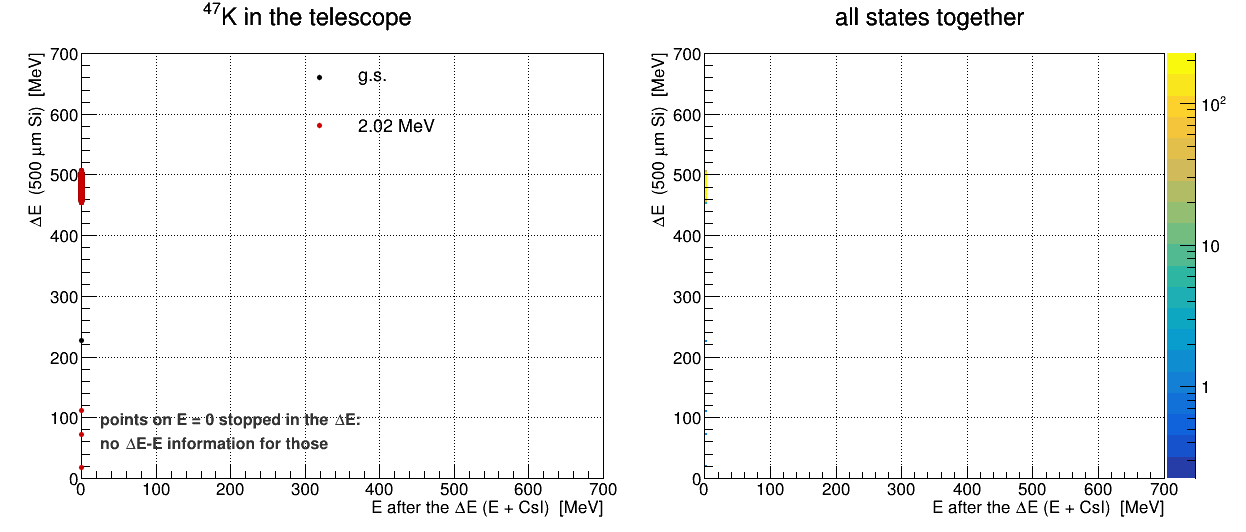
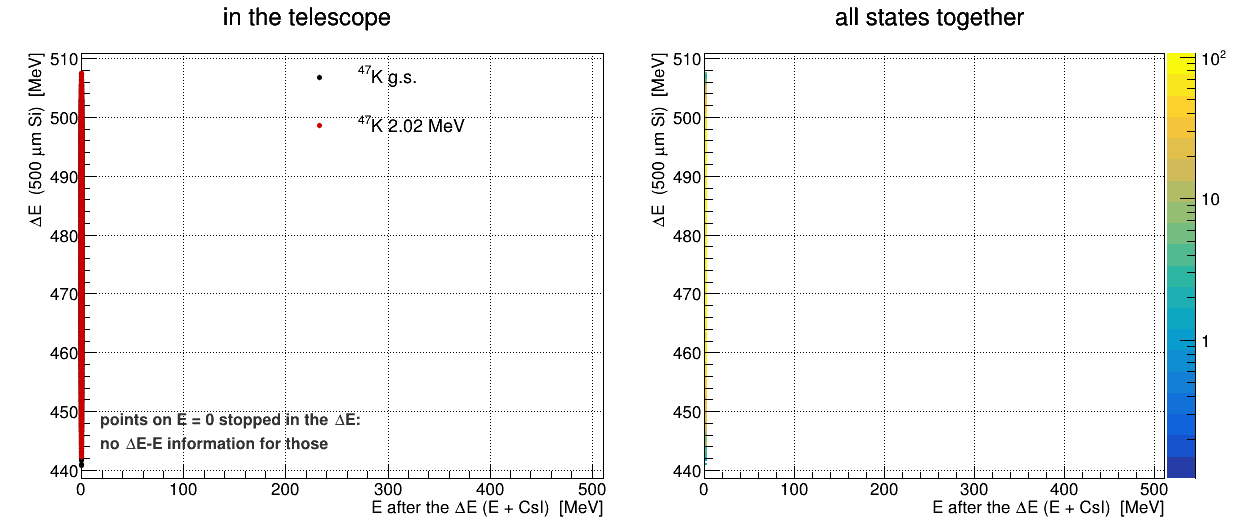
46Ar(3He,d): finished forward telescope and dE-E study
The 500/1000 um silicon stack stops the 47K residual in the first layer
(5680 of 5688, none reach E or the CsI). A 40 um dE + 200 um E stack
works: 99.8 % punch through and the residual separates from the
unreacted beam by 10.6 % in dE (5.1 sigma).

Ar46_3Hed_sim.C gains maxELossArg (1e5 = no-reaction mode, for the beam
locus) and aborts on a missing telescope geometry instead of running
with a dead detector. dEE_telescope_Ar46.C auto-ranges on percentiles.

diff --git a/geometry/Ar46_telescope.C b/geometry/Ar46_telescope.C
@@ -19,13 +19,51 @@
 /// because ions punch through 1.5 mm of silicon, so the CsI is not optional decoration; it is
 /// where the remaining energy is measured.
 ///
-/// !! AN OPEN DISCREPANCY, RECORDED SO IT IS NOT REDISCOVERED. !! GEANT4 in this simulation has
-/// a 461 MeV 47K depositing 279 MeV in only 100 um of silicon, i.e. stopping in ~150-200 um,
-/// which cannot be reconciled with a stack that deliberately puts CsI behind 1.5 mm of silicon.
-/// AtELossCATIMA disagrees with GEANT4 by a factor ~4.5 on the same case. Something in that chain
-/// is wrong and it has NOT been resolved -- so read the deposits this geometry produces as a
-/// measurement to be checked against the real detector, not as a prediction to trust. The same
-/// question hangs over AtELossCATIMA wherever else this analysis uses it.
+/// !! THE 500/1000 um STACK CANNOT WORK FOR THIS RESIDUAL, AND THE OLD "FACTOR 4.5" NOTE WAS
+/// WRONG -- BUT THE CODES DO NOT AGREE EITHER. !! (measured 2026-09-09)
+///
+/// RANGE. The 47K residual arrives at 9.5-10.9 MeV/u (arrival KE 477 +- 14 MeV, measured) and its
+/// range in silicon is 119-172 um. catima called directly gives 133.5 um at 461 MeV, and
+/// AtELossCATIMA::GetRange gives 133.7 um -- that path is a direct catima::range call and is not
+/// step-dependent. A Bethe-Barkas hand check agrees: a 10 MeV proton in Si loses 35.8 MeV cm2/g
+/// (PSTAR says 35.5), and Z_eff = 17.5 for K at this velocity gives Z_eff^2 = 307, hence
+/// 2561 MeV/mm -- catima's own entrance value to 0.1 %. The old note here claiming a 573 um range
+/// is simply wrong.
+///
+/// dE/dx. GEANT4 in this simulation is LOW against all of that, by 15-30 %:
+///
+///     layer      arrival      GEANT4 dE      catima dE     catima/GEANT4
+///     100 um     461 MeV       278.6 MeV      315.2 MeV        1.13
+///      40 um     476 MeV        81.5 MeV      107.3 MeV        1.32
+///
+/// (the ratio is not constant because at 100 um the ion is already into its Bragg peak, and the
+/// two codes put that peak in different places.) catima is the one that matches the hand check,
+/// so GEANT4's heavy-ion stopping here is the suspect -- most likely the physics list's ion
+/// parameterisation. NOT RESOLVED, but it is a 25 % question, not a factor of 4.5.
+///
+/// !! THE TRAP THAT MANUFACTURED THE OLD DISAGREEMENT !! AtELossCATIMA integrates in steps of
+/// fRangeStepSize, DEFAULT 0.1 mm -- one single step for a 100 um layer. Its deposit for the case
+/// above runs 256.0 / 279.1 / 306.8 / 315.2 MeV at steps of 0.1 / 0.05 / 0.01 / 0.001 mm. The
+/// default underestimates by 19 %, and 256 MeV happens to sit close to GEANT4's 279, which is what
+/// made the two look like they agreed. CALL SetRangeStepSize() BEFORE USING GetEnergy OR
+/// GetEnergyLoss ON ANYTHING THINNER THAN A FEW MILLIMETRES. GetRange(E, 0) is unaffected.
+///
+/// WHAT THIS MEANS FOR THE STACK -- and it is the same answer under either code. The hardware
+/// stack is a TOTAL-ENERGY detector for 47K and carries no dE-E information: measured on 12000
+/// events per state, 5680 of 5688 residuals stop in the 500 um dE, NOTHING reaches the E layer,
+/// and the CsI -- behind 1.5 mm of silicon -- never fires. The CsI is presumably there for light
+/// ejectiles, but in this reaction the deuteron goes BACKWARD (theta_lab 60-134 deg) and never
+/// reaches the telescope at all.
+///
+/// A WORKING STACK NEEDS A THIN dE. Build one with the thickness arguments:
+///   root -l 'geometry/Ar46_telescope.C(40,200,"40_200")'
+/// Measured on 12000 events: 5655 of 5665 residuals deposit in the 40 um dE and 5650 punch through
+/// into the E layer -- 99.8 % -- with a mean dE of 81.4 MeV, and the CsI still empty. 200 um of E
+/// stops the rest with margin. The species separate by ~9 % in dE per unit of Z (46Ar / 47K /
+/// 48Ca), nearly independent of the dE thickness, while the energy-loss straggling is 0.05-0.3 %,
+/// so the separation is limited by DETECTOR resolution, not physics: ~1 % silicon leaves it
+/// ~9 sigma. That 9 % is a Z_eff^2 scaling both codes share, so the GEANT4/catima gap above does
+/// not put it in doubt.
 ///
 /// SIZE AND STANDOFF. The residual stays within 3.33 deg of the axis over the proposal's
 /// theta_cm 15-80 deg window, but the vertex is spread over the whole metre of gas, so the lever
@@ -38,6 +76,16 @@
 /// and what is clipped is always the large-theta_cm corner, where the DWBA is weakest -- so the
 /// real loss is smaller than those flat numbers. 5 cm is the default here as a compromise with
 /// whatever the vessel actually needs; move it with kZFront.
+///
+/// MEASURED, 2026-09-09, and it BEATS that table: 99.9 % of the 47K residuals deposit in the dE
+/// (5680 of 5688 on 12000 events, at 2.85 T with a 5 cm gap). The analytic numbers above are
+/// straight lines and are therefore pessimistic -- the solenoid FOCUSES a residual emitted from a
+/// point on its own axis, and the median radius at the dE comes out 2.15 cm against a
+/// straight-line 2.43 cm. Do not read the field as a nuisance here; it helps.
+///
+/// That 99.9 % only became visible once the residual stopped being truncated in flight: see
+/// AtGenerators/AtTPCIonGenerator.cxx. Before that fix this telescope measured 46 %, and the
+/// deficit was NOT geometric.
 ///
 /// POSITION. Both layers are position sensitive. Strip pitch is NOT in this geometry -- Geant4
 /// records the true hit position in AtSiPoint and the strips are applied in analysis, which is
@@ -55,6 +103,7 @@
 #include "TString.h"
 #include "TSystem.h"
 
+#include <cmath>
 #include <iostream>
 
 TString geoVersion = "Ar46_telescope_v1.0";
@@ -75,11 +124,14 @@ const Double_t kGap = 5.0;     ///< clearance between the cathode and the first 
 const Double_t kZFront = kDriftEnd + kGap;
 Double_t kDEThick = 0.0500; ///< dE DSSD,  500 um  (overridden by the argument)
 Double_t kEThick = 0.1000;  ///< E  DSSD, 1000 um  (overridden by the argument)
-// CsI array: 18 x 18 mm entrance face, 25 mm deep. 5 x 5 covers 90 x 90 mm, i.e. the 10 x 10 cm
-// silicon in front of it -- the element size is the hardware, the 5 x 5 count is an assumption
-// and is the first thing to change if the real array differs.
-const Int_t kNCsI = 5;            ///< elements per side
-const Double_t kCsIFace = 1.8;    ///< entrance face [cm]
+// CsI array: 18 x 18 mm entrance face, 25 mm deep -- the element size and depth are the hardware.
+// THE COUNT IS DERIVED, NOT CHOSEN, so the array always COVERS THE DSSD: a fixed 5 x 5 spans only
+// 90 x 90 mm against a 100 x 100 mm silicon and leaves the corners -- and therefore the largest
+// theta_cm, which is where the residual lands -- unwatched. ceil() rounds up, so the array
+// slightly overhangs the silicon rather than falling short, and it follows kXSize/kYSize
+// automatically if the DSSD size is ever changed.
+const Int_t kNCsI = (Int_t)std::ceil(std::max(kXSize, kYSize) / 1.8); ///< elements per side
+const Double_t kCsIFace = 1.8;    ///< entrance face [cm] -- hardware
 const Double_t kCsIDepth = 2.5;   ///< depth [cm]
 const Double_t kCsIGap = 0.5;     ///< gap between the E DSSD and the CsI front face [cm]
 const Double_t kSep = 1.0;        ///< gap between the two DSSDs [cm]
@@ -124,6 +176,19 @@ void Ar46_telescope(Double_t dEum = 500., Double_t Eum = 1000., TString tag = ""
    gGeoMan->CheckOverlaps(0.001);
    gGeoMan->PrintOverlaps();
    gGeoMan->Test();
+
+   // WRITE INTO $VMCWORKDIR/geometry, NOT THE CURRENT DIRECTORY. FairModule::SetGeometryFileName
+   // searches only the standard geometry path, and a file it cannot find there is reported as
+   // "[FATAL] ... not found in standard path" -- which does NOT stop the job. A 12000-event run
+   // was produced that way with a telescope present in the module list, no geometry behind it and
+   // ZERO AtSiPoints, and it looked like a physics result (0 of 5673 residuals in the dE) rather
+   // than a missing file.
+   TString outDir = gSystem->Getenv("VMCWORKDIR");
+   if (outDir.IsNull())
+      outDir = "..";
+   outDir += "/geometry/";
+   FileName = outDir + FileName;
+   FileName1 = outDir + FileName1;
 
    TFile *outfile = new TFile(FileName, "RECREATE");
    top->Write();

diff --git a/macro/Simulation/ATTPC/46Ar_3Hed/dEE_telescope_Ar46.C b/macro/Simulation/ATTPC/46Ar_3Hed/dEE_telescope_Ar46.C
@@ -18,8 +18,14 @@
 /// @param dEum  dE thickness in um, FOR THE AXIS LABEL ONLY. It is not read from the geometry, so
 ///              passing the wrong value mislabels the plot without changing anything it shows --
 ///              which is exactly what happened when a 20 um run was drawn as "500 um".
+/// @param pdgs  comma-separated PDG code per file, so one call can overlay DIFFERENT SPECIES --
+///              which is the only way this plot demonstrates anything. A single-species dE-E is a
+///              detector-response plot; the question a forward telescope has to answer is whether
+///              the residual is separable from the UNREACTED BEAM, and the beam locus comes from a
+///              no-reaction run (Ar46_3Hed_sim.C with maxELossArg = 1e5). Default: 47K everywhere.
+///              47K = 1000190470, 46Ar = 1000180460, 48Ca = 1000200480.
 void dEE_telescope_Ar46(TString files, TString labels, TString outPng = "plots/dEE_telescope_Ar46.png",
-                        Double_t dEum = 500.)
+                        Double_t dEum = 500., TString pdgs = "")
 {
    gSystem->Load("libAtSimulationData.so");
    gStyle->SetOptStat(0);
@@ -27,12 +33,68 @@ void dEE_telescope_Ar46(TString files, TString labels, TString outPng = "plots/d
 
    std::unique_ptr<TObjArray> af(files.Tokenize(","));
    std::unique_ptr<TObjArray> al(labels.Tokenize(","));
+   std::unique_ptr<TObjArray> ap(pdgs.Tokenize(","));
    const int NF = af->GetEntries();
 
-   // y range follows the dE thickness: a 20 um layer deposits ~40 MeV and would be an
-   // invisible line at the bottom of a 700 MeV axis. Frame on the data.
-   const double yHi = (dEum > 200.) ? 700. : 120.;
-   auto *hAll = new TH2D("hAll", "", 200, 0, 700, 200, 0, yHi);
+   // FRAME ON THE DATA, in two passes. A fixed 0-700 x 0-120 frame put the whole 40 um result in
+   // a corner and made the 47K and the unreacted 46Ar look like one blob when they are 10.6 %
+   // apart in dE. x always keeps 0 so that "stopped in the dE" stays visible as the left edge;
+   // y is taken from the points. The first pass below only measures the extent.
+   double xHi = 0, yLo = 1e30, yHi = 0;
+   std::vector<double> allDE;
+   for (int i = 0; i < NF; ++i) {
+      TFile *f0 = TFile::Open(((TObjString *)af->At(i))->GetString());
+      if (!f0 || f0->IsZombie()) continue;
+      TTree *t0 = (TTree *)f0->Get("cbmsim");
+      TClonesArray *si0 = nullptr, *mc0 = nullptr;
+      t0->SetBranchAddress("AtSiArrayPoint", &si0);
+      t0->SetBranchAddress("MCTrack", &mc0);
+      const int pdg0 = (i < ap->GetEntries()) ? ((TObjString *)ap->At(i))->GetString().Atoi() : 1000190470;
+      for (Long64_t e = 0; e < t0->GetEntries(); ++e) {
+         t0->GetEntry(e);
+         int id = -1;
+         for (int k = 0; k < mc0->GetEntriesFast(); ++k) {
+            auto *m = (AtMCTrack *)mc0->At(k);
+            if (m->GetMotherId() == -1 && m->GetPdgCode() == pdg0) { id = k; break; }
+         }
+         if (id < 0) continue;
+         double de = 0, rest = 0;
+         for (int k = 0; k < si0->GetEntriesFast(); ++k) {
+            auto *p = (AtSiPoint *)si0->At(k);
+            if (p->GetTrackID() != id) continue;
+            double el = p->GetEnergyLoss() * 1000.0;
+            if (el <= 0) continue;
+            if (TString(p->GetVolName()).Contains("_dE")) de += el; else rest += el;
+         }
+         if (de <= 0) continue;
+         if (rest > xHi) xHi = rest;
+         allDE.push_back(de);
+      }
+      f0->Close();
+   }
+   // PERCENTILES, NOT MIN/MAX. A dozen stray low-dE points (grazing incidence at the very edge of
+   // the wafer) would otherwise set the bottom of the axis and leave the whole lower half of the
+   // frame empty -- the same failure the fixed 0-120 frame had. How many points this pushes off
+   // the frame is PRINTED, so nothing is hidden silently.
+   long nOut = 0;
+   if (allDE.empty()) { yLo = 0; yHi = 1; xHi = 1; }
+   else {
+      std::sort(allDE.begin(), allDE.end());
+      const size_t n = allDE.size();
+      yLo = allDE[(size_t)(0.005 * n)];
+      yHi = allDE[std::min(n - 1, (size_t)(0.995 * n))];
+      const double pad = 0.10 * (yHi - yLo) + 1e-6;
+      yLo = std::max(0.0, yLo - pad);
+      yHi += pad;
+      for (double v : allDE) if (v < yLo || v > yHi) ++nOut;
+   }
+   // A stack that stops everything has EVERY point at E = 0, so the measured x extent is zero and
+   // the frame would be degenerate. Fall back to the dE scale, which keeps the "all on E = 0"
+   // signature readable instead of drawing nothing.
+   xHi = (xHi > 0) ? xHi * 1.06 : yHi;
+   printf("\n  frame: E 0 - %.0f MeV, dE %.1f - %.1f MeV  (%ld of %zu points outside)\n",
+          xHi, yLo, yHi, nOut, allDE.size());
+   auto *hAll = new TH2D("hAll", "", 200, 0, xHi, 200, yLo, yHi);
    std::vector<TGraph *> gr;
    int cols[4] = {kBlack, kRed + 1, kAzure + 2, kGreen + 3};
 
@@ -52,9 +114,10 @@ void dEE_telescope_Ar46(TString files, TString labels, TString outPng = "plots/d
       for (Long64_t e = 0; e < t->GetEntries(); ++e) {
          t->GetEntry(e);
          int kid = -1;
+         const int wantPdg = (i < ap->GetEntries()) ? ((TObjString *)ap->At(i))->GetString().Atoi() : 1000190470;
          for (int k = 0; k < mc->GetEntriesFast(); ++k) {
             auto *m = (AtMCTrack *)mc->At(k);
-            if (m->GetMotherId() == -1 && m->GetPdgCode() == 1000190470) { kid = k; break; }
+            if (m->GetMotherId() == -1 && m->GetPdgCode() == wantPdg) { kid = k; break; }
          }
          if (kid < 0) continue;
          ++nK;
@@ -88,8 +151,8 @@ void dEE_telescope_Ar46(TString files, TString labels, TString outPng = "plots/d
 
    c->cd(1);
    gPad->SetGridx(); gPad->SetGridy(); gPad->SetLeftMargin(0.13); gPad->SetRightMargin(0.03);
-   TH1F *fr = gPad->DrawFrame(0, 0, 700, yHi);
-   fr->SetTitle(Form("^{47}K in the telescope;E after the #DeltaE (E + CsI)  [MeV];#DeltaE  (%.0f #mum Si)  [MeV]", dEum));
+   TH1F *fr = gPad->DrawFrame(0, yLo, xHi, yHi);
+   fr->SetTitle(Form("in the telescope;E after the #DeltaE (E + CsI)  [MeV];#DeltaE  (%.0f #mum Si)  [MeV]", dEum));
    fr->GetYaxis()->SetTitleOffset(1.3);
    auto *lg = new TLegend(0.45, 0.72, 0.95, 0.90);
    lg->SetBorderSize(0); lg->SetFillStyle(0); lg->SetTextSize(0.036);

diff --git a/macro/Simulation/ATTPC/46Ar_3Hed/draw_geometry_Ar46.C b/macro/Simulation/ATTPC/46Ar_3Hed/draw_geometry_Ar46.C
@@ -16,7 +16,8 @@ void draw_geometry_Ar46(TString outPng = "plots/geometry_Ar46.png")
    TString dir = gSystem->Getenv("VMCWORKDIR");
    if (dir.IsNull()) dir = "/home/yassid/fair_install/ATTPCROOTv2-OpenKF";
 
-   struct Box { TString name; double z0, z1, r0, r1; };
+   struct Box { TString name; double z0, z1, r0, r1; bool slab = false;
+                double xc = 0, yc = 0, dx = 0, dy = 0; };
    std::vector<Box> boxes;
 
    // Walk one geometry file's top volume and record every placed node as (z range, r range).
@@ -35,13 +36,23 @@ void draw_geometry_Ar46(TString outPng = "plots/geometry_Ar46.png")
          bool assembly = v->IsAssembly();
          if (!assembly && bb) {
             double dz = bb->GetDZ(), dx = bb->GetDX(), dy = bb->GetDY();
-            double rmax = std::max(dx, dy);
-            double rmin = 0;
-            if (TString(v->GetShape()->ClassName()) == "TGeoTube") {
+            // THE TRANSVERSE OFFSET MATTERS. An array element is placed off-axis, and ignoring
+            // tr[0] drew all 36 CsI elements stacked on the beam axis -- a picture that hid
+            // exactly the thing the array is for (covering the silicon face). x is used as the
+            // vertical here since this is an x-z section.
+            double xc = tr[0], yc = tr[1];
+            double rmin = 0, rmax = std::max(dx, dy);
+            bool tube = TString(v->GetShape()->ClassName()) == "TGeoTube";
+            if (tube) {
                auto *tb = (TGeoTube *)v->GetShape();
                rmin = tb->GetRmin(); rmax = tb->GetRmax();
             }
-            boxes.push_back({TString(v->GetName()), z - dz, z + dz, rmin, rmax});
+            // a tube is symmetric about the axis; a box is a slab centred on xc
+            if (tube)
+               boxes.push_back({TString(v->GetName()), z - dz, z + dz, rmin, rmax});
+            else
+               boxes.push_back({TString(v->GetName()), z - dz, z + dz, xc - dx, xc + dx, true,
+                                xc, yc, dx, dy});
          }
          for (int i = 0; i < v->GetNdaughters(); ++i) walk(v->GetNode(i), z);
       };
@@ -75,7 +86,9 @@ void draw_geometry_Ar46(TString outPng = "plots/geometry_Ar46.png")
          // shell, rmin > 0) is two bands. Drawing the solid case as a single positive band was
          // wrong and made the DSSDs look like half-detectors.
          std::vector<std::pair<double, double>> bands;
-         if (b.r0 <= 0)
+         if (b.slab)
+            bands.push_back({b.r0, b.r1});   // signed limits already, do not mirror
+         else if (b.r0 <= 0)
             bands.push_back({-b.r1, b.r1});
          else {
             bands.push_back({b.r0, b.r1});
@@ -106,6 +119,33 @@ void draw_geometry_Ar46(TString outPng = "plots/geometry_Ar46.png")
    c->cd(2);
    gPad->SetGridx(); gPad->SetGridy(); gPad->SetLeftMargin(0.07); gPad->SetRightMargin(0.02);
    drawFrame(99.5, 110.5, 7, "zoom -- dE 500 um (green), E 1000 um (blue), CsI array 18x18x25 mm (orange)");
+
+   // --- face-on view -------------------------------------------------------------------------
+   // AN x-z SECTION CANNOT SHOW AN ARRAY. The CsI elements tile contiguously in x, so in a side
+   // view all 36 collapse into one solid bar and the segmentation -- and whether the array
+   // actually covers the silicon -- is invisible. This panel looks down the beam, which is the
+   // only projection in which "does the CsI cover the DSSD" is a question you can answer.
+   TCanvas *c2 = new TCanvas("cgf", "face on", 620, 620);
+   gPad->SetGridx(); gPad->SetGridy(); gPad->SetLeftMargin(0.13);
+   TH1F *ff = gPad->DrawFrame(-7, -7, 7, 7);
+   ff->SetTitle("looking down the beam;x [cm];y [cm]");
+   for (const auto &b : boxes) {
+      if (!b.slab) continue;
+      const bool csi = b.name.Contains("CsI");
+      auto *bx = new TBox(b.xc - b.dx, b.yc - b.dy, b.xc + b.dx, b.yc + b.dy);
+      bx->SetFillStyle(0);
+      bx->SetLineColor(csi ? kOrange - 3 : (b.name.Contains("_dE") ? kGreen + 2 : kAzure + 2));
+      bx->SetLineWidth(csi ? 1 : 3);
+      bx->Draw("l");
+   }
+   {
+      auto *t = new TLatex(); t->SetTextSize(0.033);
+      t->SetTextColor(kGreen + 2); t->DrawLatex(-6.6, 6.1, "DSSD 10 x 10 cm (dE green, E blue behind)");
+      t->SetTextColor(kOrange - 3); t->DrawLatex(-6.6, 5.5, "CsI array, 18 x 18 mm elements");
+   }
+   TString facePng = outPng; facePng.ReplaceAll(".png", "_faceon.png");
+   gSystem->mkdir("plots", kTRUE);
+   c2->SaveAs(facePng);
 
    gSystem->mkdir("plots", kTRUE);
    c->SaveAs(outPng);

diff --git a/macro/Simulation/ATTPC/46Ar_3Hed/Ar46_3Hed_sim.C b/macro/Simulation/ATTPC/46Ar_3Hed/Ar46_3Hed_sim.C
@@ -55,7 +55,13 @@ void Ar46_3Hed_sim(Int_t nEvents = 2000, Double_t thetaMinCM = 15.0, Double_t th
                    // there. Pass kTRUE to place the two DSSDs behind the cathode -- only useful
                    // for the REVERSED detector, where the beam leaves through the cathode.
                    Bool_t withTelescope = kFALSE,
-                   TString telescopeGeo = "Ar46_telescope_v1.0.root")
+                   TString telescopeGeo = "Ar46_telescope_v1.0.root",
+                   // NO-REACTION MODE. Pass a threshold far above the 95.7 MeV a beam traversal
+                   // actually deposits (e.g. 1e5) and no reaction ever fires, so the BEAM crosses
+                   // the whole chamber and reaches the telescope. That is the only way to get the
+                   // unreacted beam's dE-E locus, which is what the residual has to be separated
+                   // from. Default 96.0 is the production value and is unchanged.
+                   Double_t maxELossArg = 96.0)
 {
    // Parallel jobs with no seed produce byte-identical events, so "more statistics" would be the
    // same sample copied. seed = 0 keeps ROOT's time-based default; pass a distinct value per job.
@@ -87,6 +93,16 @@ void Ar46_3Hed_sim(Int_t nEvents = 2000, Double_t thetaMinCM = 15.0, Double_t th
    // HELIOS macros use for AtSiArray. Its geometry (geometry/Ar46_telescope.C) places the two
    // DSSDs at z = 105 and 106 cm, i.e. past the 100 cm drift volume, so it cannot overlap the TPC.
    if (withTelescope) {
+      // ABORT ON A MISSING TELESCOPE GEOMETRY. FairModule reports it as "[FATAL] ... not found in
+      // standard path" and then CARRIES ON: the module stays in the list, nothing is placed, and
+      // the run completes with an empty AtSiPoint branch. That produced a full 12000-event sample
+      // whose telescope recorded zero of 5673 residuals -- indistinguishable from a real null
+      // result until the log was read.
+      if (gSystem->AccessPathName(dir + "/geometry/" + telescopeGeo)) {
+         std::cout << "\n  FATAL: telescope geometry " << telescopeGeo << " is not in "
+                   << dir << "/geometry/ -- build it with geometry/Ar46_telescope.C\n\n";
+         return;
+      }
       FairDetector *tel = new AtSiArray("Ar46Telescope", kTRUE);
       tel->SetGeometryFileName(telescopeGeo);
       run->AddModule(tel);
@@ -141,7 +157,7 @@ void Ar46_3Hed_sim(Int_t nEvents = 2000, Double_t thetaMinCM = 15.0, Double_t th
    // The kinematics are NOT affected by this knob: startReactionEvent() hands the generator
    // gMC->Etot() (AtTpc.cxx:257), the true transported energy, so the residual beam energy at the
    // vertex is right whatever maxELoss is. maxELoss only places the vertex.
-   Double_t maxELoss = 96.0; // MeV
+   Double_t maxELoss = maxELossArg; // MeV, default 96.0 -- see the argument
 
    AtTPCIonGenerator *ionGen =
       new AtTPCIonGenerator("Ion", z, a, q, m, px, py, pz, BExcEner, Bmass, NomEnergy, maxELoss);
